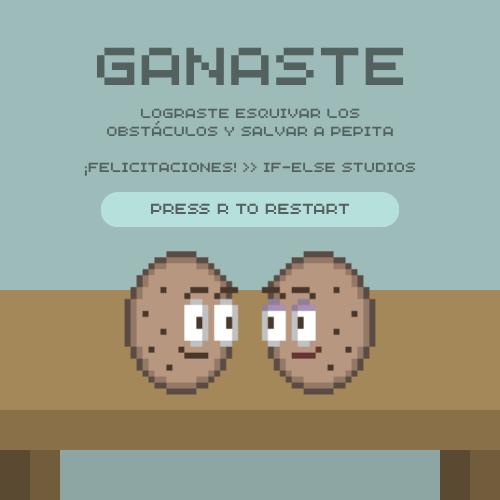
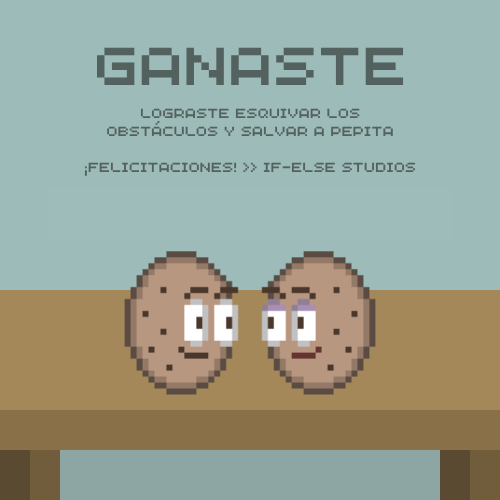
Cambios finales, funcionan los tests y el segundo nivel

Changed region(s): [[0.18, 0.36, 0.81, 0.48]]

diff --git a/README.md b/README.md
@@ -6,35 +6,64 @@ Ayuda a Pepito en una carrera para alcanzar a su amada antes de que sea demasiad
 En este juego deberás esquivar, rodar y saltar distintos obstáculos para abrirte camino
 hasta el final de la mesa, ¿podrás lograr que Pepito y Pepita se reencuentren a tiempo?
 
-### **Clases**
+## **CONTROLES**
 
-- Para el modelado de los obstáculos, se optó por crear una clase base (`ObstaculoHorizontal`)
-  la cual permita definir un comportamiento común en torno al movimiento de los mismos y los
-  efectos ante la colisión con Pepito.
+### General:
+- "Enter" para empezar
+- "R" para reiniciar
 
-- De esta forma también, pensando en próximas entregas, se facilita la aplicación de métodos
-  de carácter polimórfico sin necesidad de modificar objeto por objeto.
+### En el primer nivel:
+- "W" para subir un espacio
+- "S" para bajar un espacio
 
-### **Colecciones**
+### En el segundo nivel:
+- "D" para moverse un espacio a la derecha
+- "A" para moverse un espacio a la izquierda
+
+## **OBSTÁCULOS**
+
+- Vaso de Leche: **DAÑO 1**
+- Cuchillo: **DAÑO 2**
+- Tostadora: **DAÑO 1** y ocupa el doble de filas
+- Plato: **DAÑO 1** (segundo nivel)
+
+## **CLASES**
+
+- Para el modelado de los obstáculos, se optó por crear una clase abstracta (`Obstaculo`)
+  la cual permita definir un comportamiento común ante la colisión con Pepito y plantear los métodos comunes, pero con la libertad de sobreescribir como sea necesario e incluso hacer uso de "super". 
+
+- De la misma manera, el personaje Pepito también aprovecha las ventajas de la herencia.
+
+- De esta forma pudimos modificar "en cascada", sin tener que aplicar los cambios clase a clase.
+
+## **COLECCIONES**
 
 - El uso de colecciones está ligado a la aparición de múltiples obstáculos en pantalla al mismo
   tiempo. Era necesario contar con una lista que permita gestionar el comportamiento de varios
-  objetos a la vez, sin diferenciar su tipo (podrían ser obstaculos verticales).
+  objetos a la vez, sin diferenciar su tipo (podrían ser obstaculos horizontales o verticales).
 
-### **Polimorfismo:**
+- También es usado para la lista de Ticks usados.
+
+## **POLIMORFISMO**
 
 - La estructura del código permite mantenibilidad y escalabilidad en torno al comportamiento de
   los obstáculos. Tanto si comprende los métodos de movimiento como los de colisión, esto permite
-  que el objeto se vincule con `object pepito` sin importar si es un vaso, un plato o una garrafa.
+  que el objeto se vincule con `object pepito` sin importar si es un vaso, un plato o un chocolate.
+
+- Además, mediante "duck typing", al mover los objetos, no le interesa cuál sea su clase, tan solo que puedan comprender el mensaje deseado.
+
 
 
 ---
 
-## **Diagrama de Clases:**
+
+## **DIAGRAMA DE CLASES**
 
 ![Diagrama de Clases](/assets/Diagrama_de_Clases.png)
 
-`juegoPepitoSweetRescue` actúa como el cerebro del programa; implementando la interfaz de **fondo**
-da formato al juego, para así luego ejecutar los métodos *menu()* e *iniciar()*, los cuales dan lugar
+En una primera versión, `juegoPepitoSweetRescue` actuaba como el cerebro del programa; implementando la interfaz de **fondo**
+daba formato al juego, para así luego ejecutar los métodos *menu()* e *iniciar()*, los cuales dan lugar
 a los **onTick events** que regulan la interacción entre `juegoPepitoSweetRescue`, `pepito`, y las
 instancias de la clase `ObstaculoHorizontal`.
+
+Actualmente, el `instanciadorDeNiveles` es quien crea objetos de la clase respectiva al nivel deseado y les comunica los mensajes a esa instancia específica.
